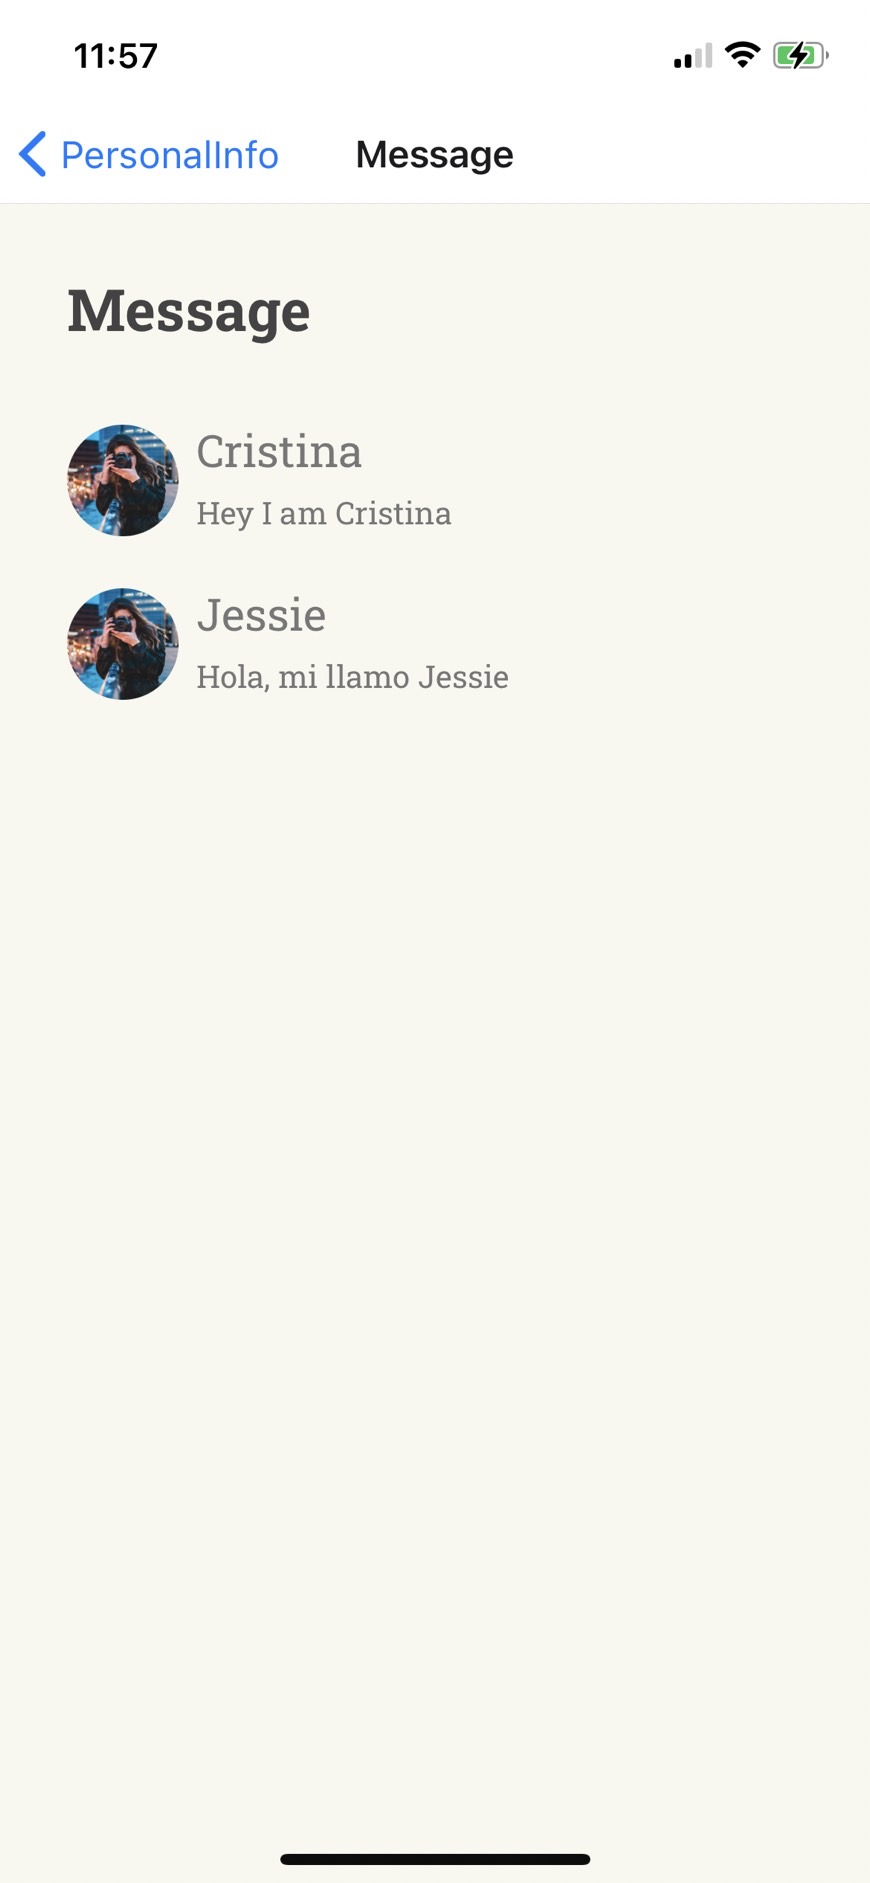
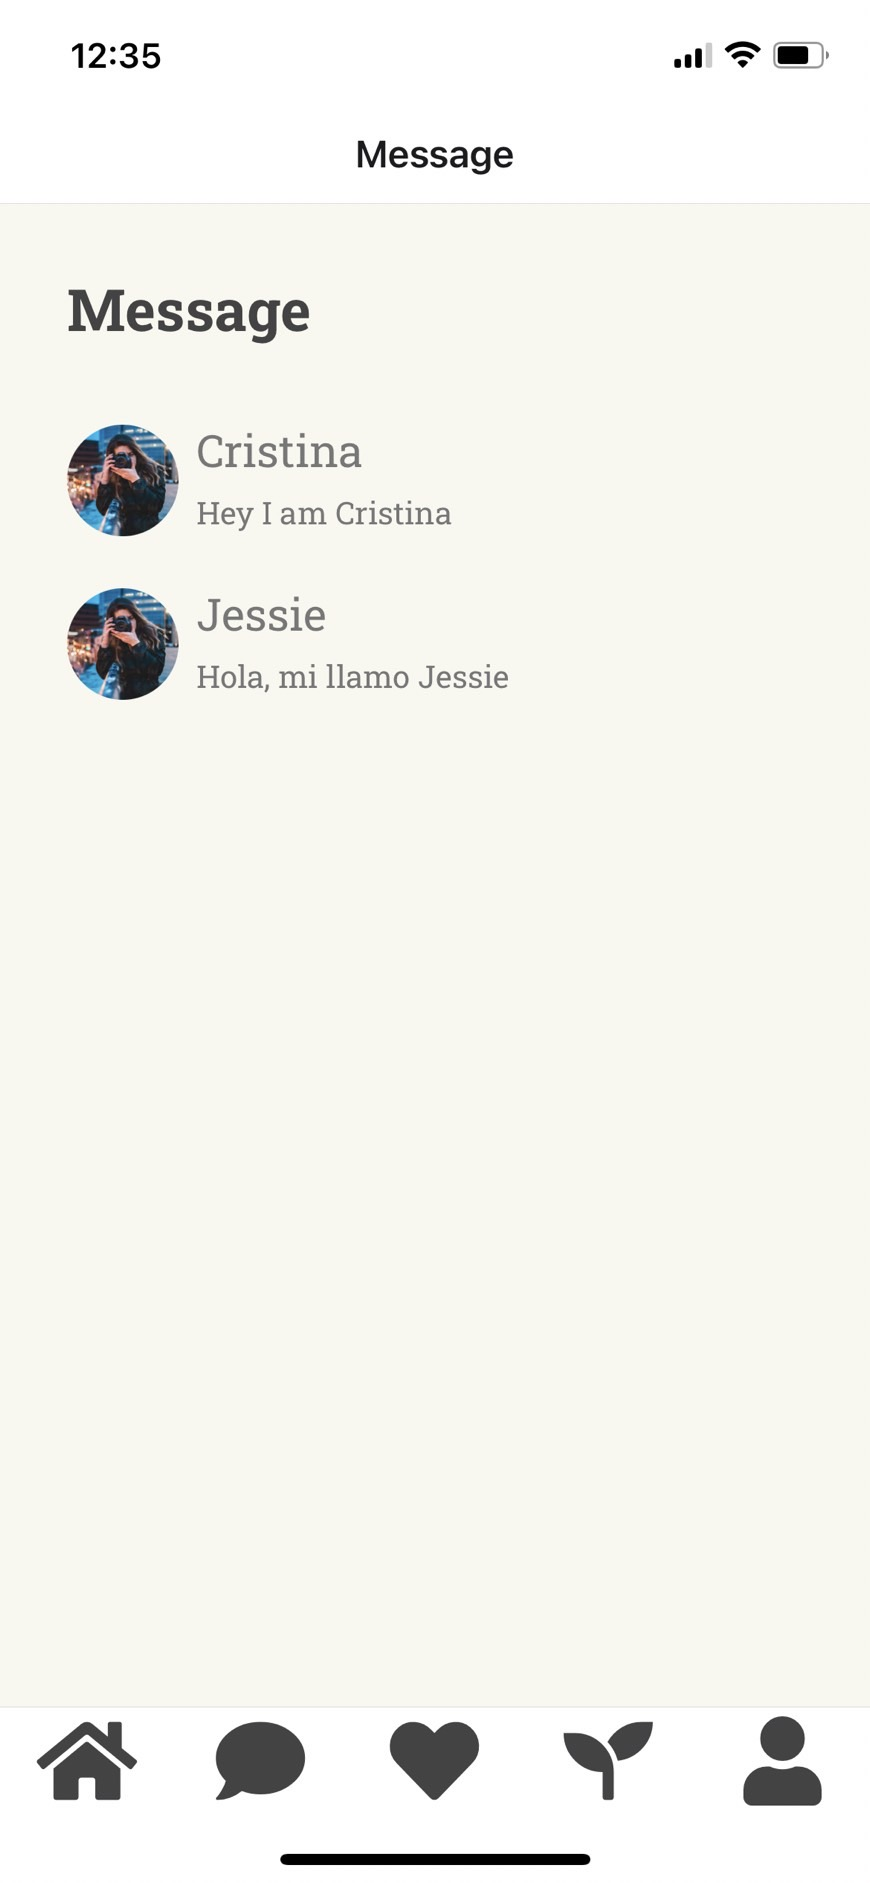
docs: update image with tab navigation

diff --git a/docs/Pages/Home.md b/docs/Pages/Home.md
@@ -2,7 +2,8 @@
 
 Previous Page: [PersonalInfo](./PersonalInfo.md)
 
-<img src="./Home/Home.jpg" alt="Home Demo" width="30%">
+<img src="./Home/Home1.jpg" alt="Home Demo" width="30%">
+<img src="./Home/Home2.jpg" alt="Home Demo" width="30%">
 
 ## Field in this Page
 [PostField](./Home/PostField.md)

diff --git a/docs/Pages/Match.md b/docs/Pages/Match.md
@@ -2,7 +2,8 @@
 
 Previous Page: [Message](./Message.md)
 
-<img src="./Match/Match.jpg" alt="Match Demo" width="30%">
+<img src="./Match/Match1.jpg" alt="Match Demo" width="30%">
+<img src="./Match/Match2.jpg" alt="Match Demo" width="30%">
 
 ## Link in this Pages
 [Profile](./Profile.md)
